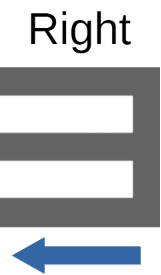
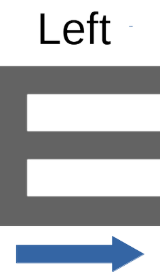
Help rich text with sprite assets to render images.
Features:
* Help rich text to provide real time style.

Fixes:
* Fix naming error for left and right letter E.
* Bug fixing and code optimazation
* Code comment
* Code brush up
* Code clean up

diff --git a/Assets/Scripts/ExpertWaves/GameController.cs b/Assets/Scripts/ExpertWaves/GameController.cs
@@ -416,7 +416,7 @@ namespace ExpertWaves {
 				switch (text) {
 					case ITextReader.Help:
 						content.text = helpTextAsset.text;
-						length = 11500;
+						length = 7500;
 						title.text = "Help";
 						break;
 					case ITextReader.Privacy:

diff --git a/Assets/Resources/Text/Help.md b/Assets/Resources/Text/Help.md
@@ -1,23 +1,30 @@
-<align="center"><size=40>Distance Test</size></align>
-<size=30>
+<align="center"><size=30>Distance Test</size></align>
+
 Optotype is latter that is used on eye screening. On this test we use optotype letter E (Tumbling E), as indicated on figure below.
 <pos=50%><size=200><sprite="E" index=0></size>
 
 
+
+
 Optotype is rotated on each level to face on one of the four directions (Left, Right, Down, Up). The goal of each level is swipe on the direction on which the letter is facing. Figures below shows four directions of the optotypes:
-<pos=50%><size=250><sprite="E-Left" index=0></pos>
-<pos=50%><size=250><sprite="E-Right" index=0></pos> 
-<pos=50%><size=220><sprite="E-Down" index=0></pos> 
+<pos=50%><size=250><sprite="E-Left" index=0></size></pos>
+<pos=50%><size=250><sprite="E-Right" index=0></size></pos> 
+<pos=50%><size=220><sprite="E-Down" index=0></size></pos> 
 <pos=50%><size=220><sprite="E-Up" index=0></size></pos>
-<size=30>
+
+
 
 
 The size of the optotype get reduce as you proceed to the next levels. You get the reward of 100% when you complete all levels, it is worth your effort. Beware of timeout test termination condition, you need to complete every level within a time span indicated by slider on a screen of a device. The figure below show the timeout slider used on the test.
 <pos=50%><size=200><sprite="Timeout" index=0></size>
 
 
+
+
 The result will be displayed once is completed or terminated, represented in percentage. The higher you score, it is more likely that you have a proper vision. Figure below shows the snapshot of result taken from the app.
 <pos=50%><size=200><sprite="Distance-Result" index=0></size>
+
+
 
 
 Upper score indicate the overall percentage earned in all primary colors. Whereas the lower three scores indicate the percentage of the correct choices you made per primary color.
@@ -44,32 +51,40 @@ The app aid you to prepare for the K53 Eye Test, it does not claim to use the sc
 </sub>
 
 
-<align="center"><size=40>Color Test</size></align>
-<size=30>
+<align="center"><size=30>Color Test</size></align>
+
 Color test focus on your ability to determine the color of the object, in this test a vehicle is used. On each the vehicle is given distinct color. The figure below show the image of the vehicle used to conduct the color test.
 <pos=50%><size=200><sprite="Car" index=0></size>
+
+
 
 All the colors you know, are made up by combining of primary colors (red, green and blue). The goal is each level, is for you determine if the color is more close either red, green or blue color component. The intensity of the color decreases as you complete more levels, approaching more transparent colors like a that of a glass. You have to select the button with the color close to the car, you have option to click on a red button, a green button, or a blue button.
 
 Figures below show examples of the colors with associated closest color, you might come them across on different levels during the test session.
-<pos=50%><size=150><sprite="Car-Red" index=0> 
-<pos=50%><size=150><sprite="Car-Green" index=0> 
-<pos=50%><size=150><sprite="Car-Blue" index=0>
-<size=30>
+<pos=50%><size=150><sprite="Car-Red" index=0></size> 
+<pos=50%><size=150><sprite="Car-Green" index=0></size> 
+<pos=50%><size=150><sprite="Car-Blue" index=0></size>
+
+
 
 The goal of every level is to select the button with the primary color close to the vehicle color, you have option to click on a red button, a green button, or a blue button. Figure below shows the snapshot of selection buttons taken from the app.
 <pos=50%><size=200><sprite="Color-Choices" index=0></size>
+
 
 
 Beware of the timeout, complete every level before the timeout expires. Figure below show snapshot of the timeout slider used in the game. 
 <pos=50%><size=200><sprite="Timeout" index=0></size>
 
 
-Once test is completed or terminated, result is shown, represented in percentage. The higher you score, it is more likely that you have a proper vision. Figure below shows the snapshot of result taken from the app. The top percentage indicate overall score that include all three primary colors. The bottom scores, each represent a primary color (red, green, blue); If you score less on red primary color, means your vision is good with other colors but limited to red.
+
+Once test is completed or terminated, result is shown, represented in percentage. The higher you score, it is more likely that you have a proper vision. The top percentage indicate overall score that include all three primary colors. The bottom scores, each represent a primary color (red, green, blue); If you score less on red primary color, it means that your vision is good with other colors but limited to red. Figure below shows the snapshot of result taken from the app. 
 <pos=50%><size=400><sprite="Color-Result" index=0></size>
 
 
-<size=30>
+
+
+
+
 How to use the app on color test:
 - <indent=1rem>The goal to is determine the dominant primary color from a displayed vehicle color.</indent>
 - <indent=1rem>If red primary color is dominant color, press red button.</indent>
